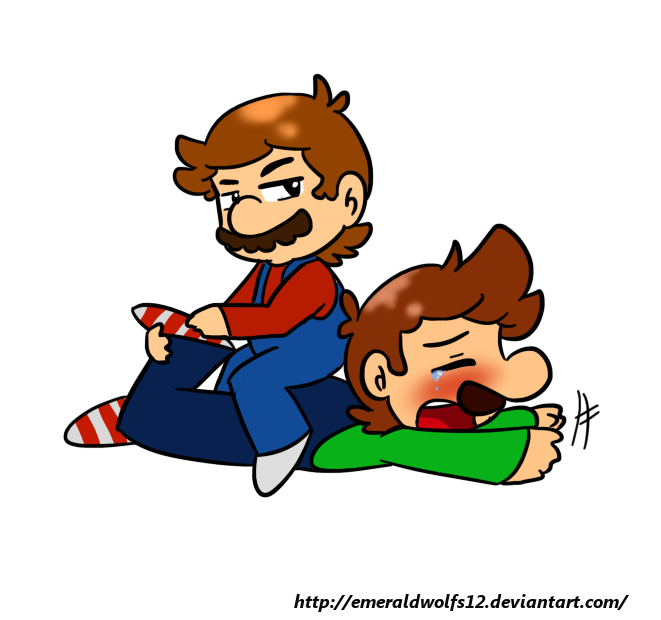
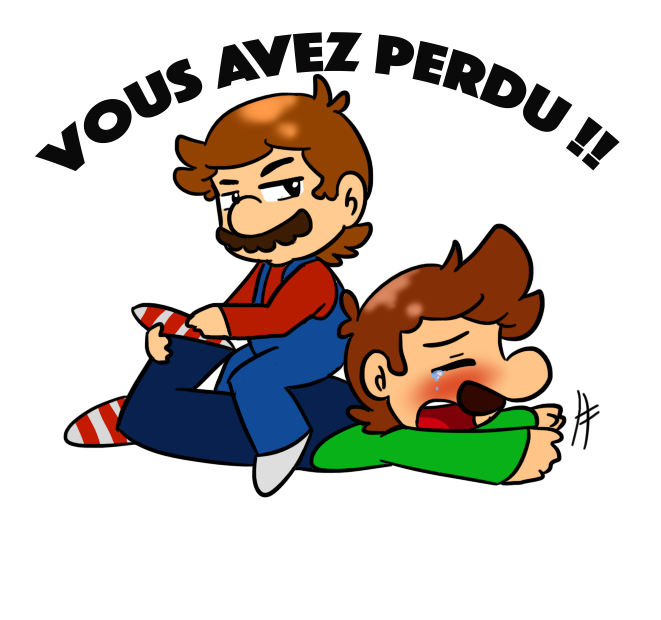
design

Changed region(s): [[0.0605, 0.0306, 0.8775, 0.2758], [0.4236, 0.95, 0.9682, 0.9806], [0.8472, 0.1839, 0.938, 0.2758]]

diff --git a/src/fr/kwidz/JeuDeDames/Client/Graphisme/PanneauPerdu.java b/src/fr/kwidz/JeuDeDames/Client/Graphisme/PanneauPerdu.java
@@ -1,8 +1,11 @@
 package fr.kwidz.JeuDeDames.Client.Graphisme;
 
+import javax.imageio.ImageIO;
 import javax.swing.*;
 import java.awt.*;
 import java.awt.image.BufferedImage;
+import java.io.File;
+import java.io.IOException;
 
 
 /**
@@ -11,8 +14,17 @@ import java.awt.image.BufferedImage;
 public class PanneauPerdu extends JPanel {
 
     public void paintComponent(Graphics g){
-        BufferedImage perdu;
-        g.drawString("Vous avez perdu !! ", 10, 20);
+        BufferedImage marioGagne = null;
+
+        try {
+            marioGagne = ImageIO.read(new File("Images/marioGagne.png"));
+
+        } catch (IOException ex) {
+            System.out.print("non chargé");
+        }
+        g.drawImage(marioGagne,0,0,this.getWidth(),this.getHeight(),null);
+
+
 
 
     }

diff --git a/src/fr/kwidz/JeuDeDames/Client/Reseau/ThreadEcoute.java b/src/fr/kwidz/JeuDeDames/Client/Reseau/ThreadEcoute.java
@@ -59,6 +59,7 @@ public class ThreadEcoute extends Thread{
 
 
                 System.out.println("message : " + message);
+
                 if(message.equals("joueur1")){
                     jetonDeJeu.setJeton(false);
                     jetonDeJeu.setJoueur1(true);
